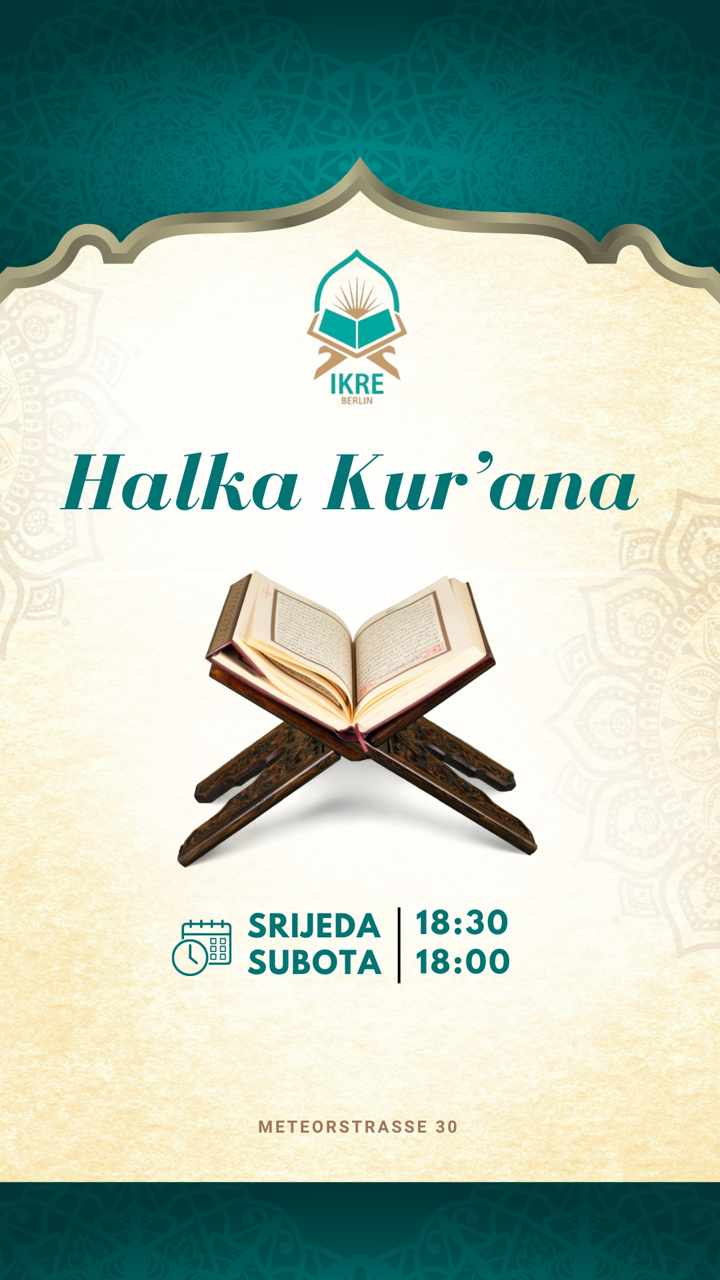
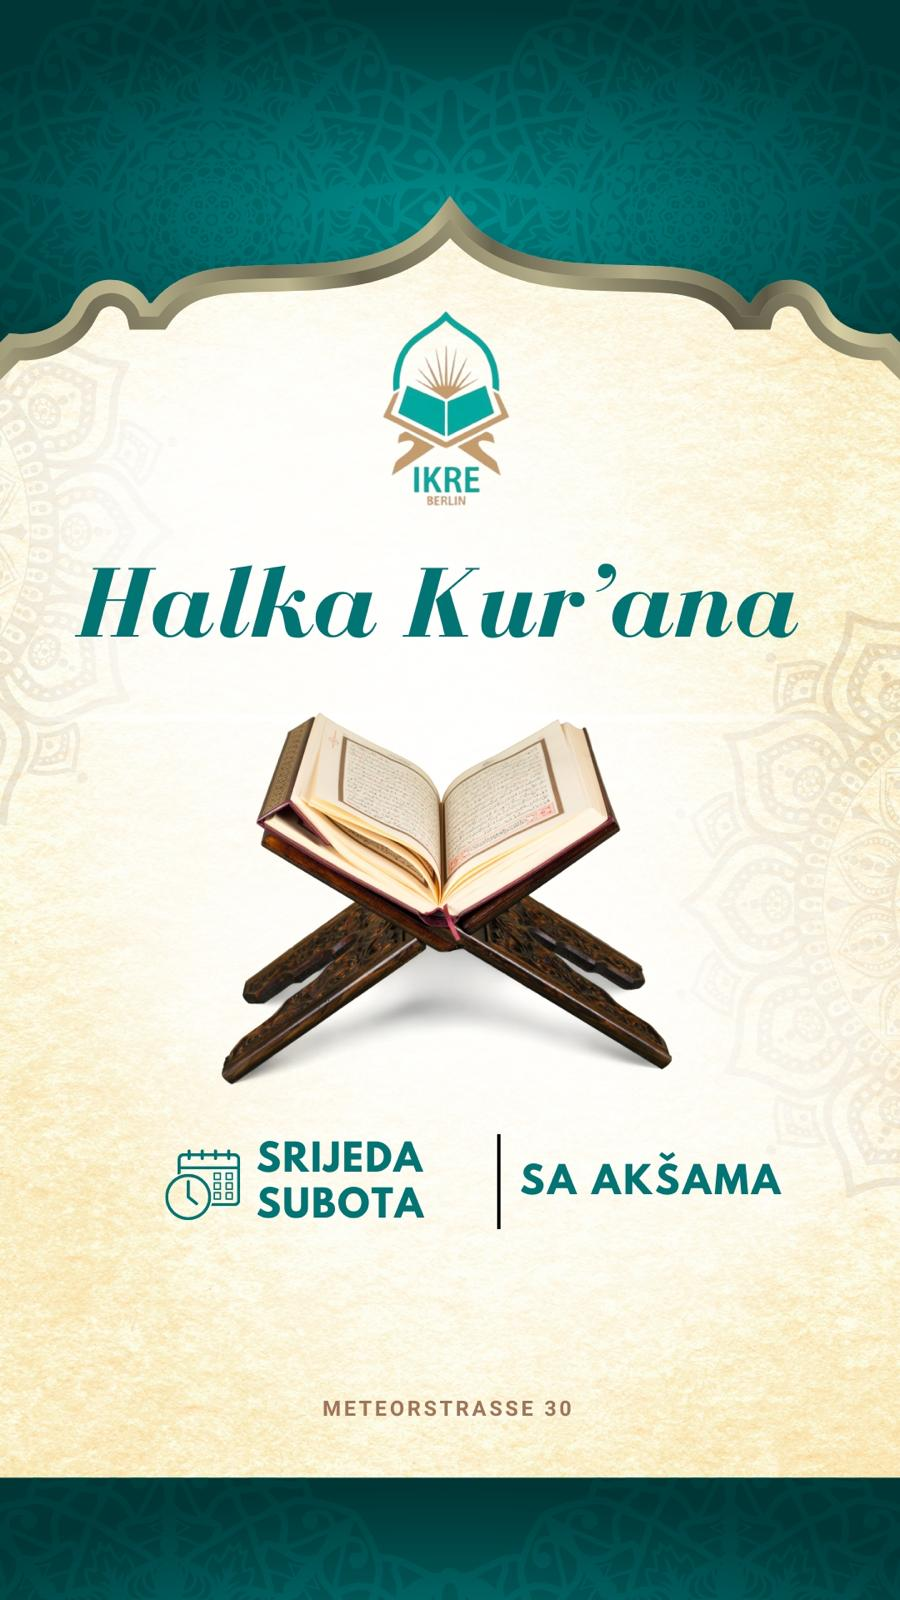
p

diff --git a/dist/main.js b/dist/main.js
@@ -1,1 +1,1 @@
[2 lines of base64/hex data omitted]

diff --git a/dist/ResourceDisplayer.js b/dist/ResourceDisplayer.js
@@ -7,8 +7,8 @@ var narrow1 = document.getElementById("narrow1");
 var narrow2 = document.getElementById("narrow2");
 var video = document.getElementById("vid");
 const path = "pictures/narrow/";
-var narrow1Sources = [`${path}n6.jpeg`, `${path}n5.jpeg`, `${path}n7.jpeg`];
-var narrow2Sources = [`${path}n1.jpeg`, `${path}halka.jpeg`, `${path}n4.jpeg`];
+var narrow1Sources = [`${path}n6.jpeg`, `${path}n5.jpeg`, `${path}n3.jpeg`];
+var narrow2Sources = [`${path}n1.jpeg`, `${path}halka.jpeg`, `${path}n2.jpeg`];
 var broadSources = [`pictures/broad/b0.jpeg`]; //broad video sources possible
 //2 narrow pictures fit on the display
 var narrow1Index = getNewPicIndex(narrow1Sources);

diff --git a/src/ResourceDisplayer.ts b/src/ResourceDisplayer.ts
@@ -5,8 +5,8 @@ var narrow2 = document.getElementById("narrow2") as HTMLImageElement;
 var video = document.getElementById("vid") as HTMLVideoElement;
 
 const path = "pictures/narrow/";
-var narrow1Sources = [`${path}n6.jpeg`,  `${path}n5.jpeg`, `${path}n7.jpeg`];
-var narrow2Sources = [ `${path}n1.jpeg`, `${path}halka.jpeg`,`${path}n4.jpeg`];
+var narrow1Sources = [`${path}n6.jpeg`,  `${path}n5.jpeg`, `${path}n3.jpeg`];
+var narrow2Sources = [ `${path}n1.jpeg`, `${path}halka.jpeg`,`${path}n2.jpeg`];
 var broadSources = [`pictures/broad/b0.jpeg`];//broad video sources possible
 
 //2 narrow pictures fit on the display
